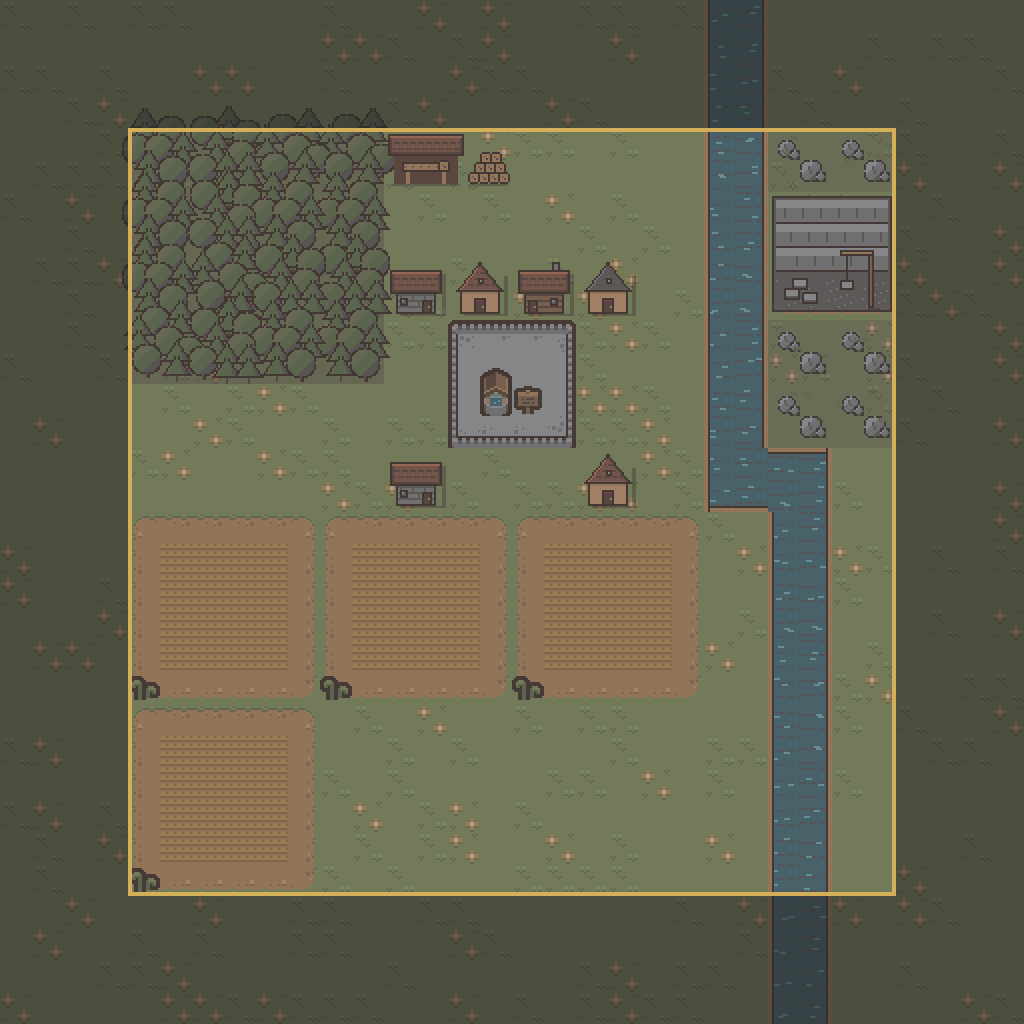
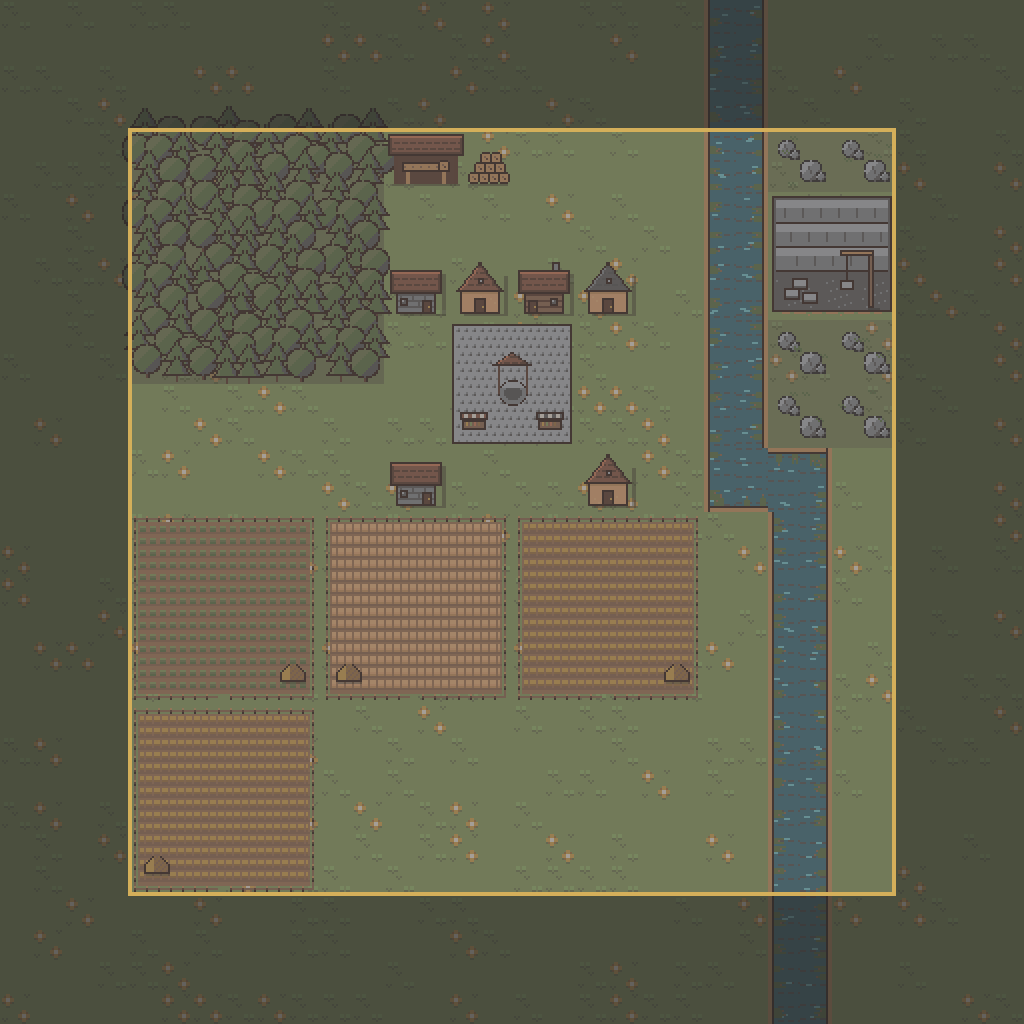
Map mockup: fenced farms with their own crops and haystacks, our square (cobbles, well, market stalls), reeds on the river banks

diff --git a/docs/index.html b/docs/index.html
@@ -548,19 +548,19 @@ footer { padding-block: 2.5rem 4rem; color: var(--ink-faint); font-size: 0.85rem
     <h3>D. Mockup: il nostro regno in Tiny Town</h3>
     <p>Il nucleo 12×12 vero del primo regno, letto da <span class="code">engine/maps</span>, con un po' di terra intorno (più scura, fuori dai confini) e il confine in oro. Ogni casella del motore è un blocco di 2×2 caselle Tiny Town: la casa 1×1 diventa tetto più muro con porta, il campo 3×3 un appezzamento 6×6. Acqua, colline e grano non esistono in Tiny Town: qui sono disegnati da noi con i colori della stessa tavolozza. Tre tavolozze a confronto, stesso disegno.</p>
     <div class="art-grid">
-      <figure><img src="assets/proposals/mockup/core_original.png?v=r6" alt="Il nucleo del regno con i colori originali di Tiny Town" loading="lazy" style="aspect-ratio:1/1;image-rendering:pixelated"><figcaption><b>1. Colori originali</b><span>Allegro e saturo, come lo disegna Kenney.</span></figcaption></figure>
-      <figure><img src="assets/proposals/mockup/core_serious.png?v=r6" alt="Il nucleo del regno con la tavolozza seriosa" loading="lazy" style="aspect-ratio:1/1;image-rendering:pixelated"><figcaption><b>2. Serioso</b><span>Saturazione dimezzata, verdi verso l'oliva, velatura seppia.</span></figcaption></figure>
-      <figure><img src="assets/proposals/mockup/core_dark.png?v=r6" alt="Il nucleo del regno con la tavolozza cupa" loading="lazy" style="aspect-ratio:1/1;image-rendering:pixelated"><figcaption><b>3. Cupo</b><span>Più scuro e più spento: si lega al fondo della pagina.</span></figcaption></figure>
+      <figure><img src="assets/proposals/mockup/core_original.png?v=r7" alt="Il nucleo del regno con i colori originali di Tiny Town" loading="lazy" style="aspect-ratio:1/1;image-rendering:pixelated"><figcaption><b>1. Colori originali</b><span>Allegro e saturo, come lo disegna Kenney.</span></figcaption></figure>
+      <figure><img src="assets/proposals/mockup/core_serious.png?v=r7" alt="Il nucleo del regno con la tavolozza seriosa" loading="lazy" style="aspect-ratio:1/1;image-rendering:pixelated"><figcaption><b>2. Serioso</b><span>Saturazione dimezzata, verdi verso l'oliva, velatura seppia.</span></figcaption></figure>
+      <figure><img src="assets/proposals/mockup/core_dark.png?v=r7" alt="Il nucleo del regno con la tavolozza cupa" loading="lazy" style="aspect-ratio:1/1;image-rendering:pixelated"><figcaption><b>3. Cupo</b><span>Più scuro e più spento: si lega al fondo della pagina.</span></figcaption></figure>
     </div>
   </div>
 
   <div class="proposal-group">
     <h3>E. Il palazzo nelle tre ere</h3>
-    <p>Proposta: un palazzo fisso 2×2 accanto alla piazza, verso il fiume, sulle caselle (7,3)–(8,4) del nucleo. Il motore oggi non lo conosce: è solo nel mockup. Con l'era cambiano il palazzo, le case e la piazza. Tavolozza seriosa (la n. 2). Edifici, bosco e colline sono disegnati da noi, pixel per pixel, nello stile di Tiny Town (segheria con tettoia e cataste, cava a gradoni con la gru, bosco di latifoglie e conifere, colline di roccia); case più strette del loro spazio, con l'erba in mezzo; una casa sì e una no tetto di fronte o a capanna col timpano, ombra portata a destra.</p>
+    <p>Proposta: un palazzo fisso 2×2 accanto alla piazza, verso il fiume, sulle caselle (7,3)–(8,4) del nucleo. Il motore oggi non lo conosce: è solo nel mockup. Con l'era cambiano il palazzo, le case e la piazza. Tavolozza seriosa (la n. 2). Edifici, bosco e colline sono disegnati da noi, pixel per pixel, nello stile di Tiny Town (segheria con tettoia e cataste, cava a gradoni con la gru, bosco di latifoglie e conifere, colline di roccia, campi recintati con colture diverse e covoni, piazza col pozzo e le bancarelle, canne lungo il fiume); case più strette del loro spazio, con l'erba in mezzo; una casa sì e una no tetto di fronte o a capanna col timpano, ombra portata a destra.</p>
     <div class="art-grid">
-      <figure><img src="assets/proposals/mockup/core_era1.png?v=r6" alt="Il regno nella prima era: villaggio con la sala del signore" loading="lazy" style="aspect-ratio:1/1;image-rendering:pixelated"><figcaption><b>Villaggio: la sala del signore</b><span>Lunga sala di legno col tetto di paglia, una staccionata, lo stendardo d'oro. Case di paglia, piazza di terra battuta.</span></figcaption></figure>
-      <figure><img src="assets/proposals/mockup/core_era2.png?v=r6" alt="Il regno nella seconda era: città con il palazzo comunale" loading="lazy" style="aspect-ratio:1/1;image-rendering:pixelated"><figcaption><b>Città: il palazzo comunale</b><span>Torre civica in pietra con la cella campanaria, loggia a tre archi, tetto di coppi. Case di coppi e ardesia, piazza lastricata.</span></figcaption></figure>
-      <figure><img src="assets/proposals/mockup/core_era3.png?v=r6" alt="Il regno nella terza era: il castello" loading="lazy" style="aspect-ratio:1/1;image-rendering:pixelated"><figcaption><b>Regno: il castello</b><span>Mastio sul retro, due torri d'angolo con le feritoie, mura merlate, porta con la saracinesca, stendardo sul mastio. Case di pietra e ardesia.</span></figcaption></figure>
+      <figure><img src="assets/proposals/mockup/core_era1.png?v=r7" alt="Il regno nella prima era: villaggio con la sala del signore" loading="lazy" style="aspect-ratio:1/1;image-rendering:pixelated"><figcaption><b>Villaggio: la sala del signore</b><span>Lunga sala di legno col tetto di paglia, una staccionata, lo stendardo d'oro. Case di paglia, piazza di terra battuta.</span></figcaption></figure>
+      <figure><img src="assets/proposals/mockup/core_era2.png?v=r7" alt="Il regno nella seconda era: città con il palazzo comunale" loading="lazy" style="aspect-ratio:1/1;image-rendering:pixelated"><figcaption><b>Città: il palazzo comunale</b><span>Torre civica in pietra con la cella campanaria, loggia a tre archi, tetto di coppi. Case di coppi e ardesia, piazza lastricata.</span></figcaption></figure>
+      <figure><img src="assets/proposals/mockup/core_era3.png?v=r7" alt="Il regno nella terza era: il castello" loading="lazy" style="aspect-ratio:1/1;image-rendering:pixelated"><figcaption><b>Regno: il castello</b><span>Mastio sul retro, due torri d'angolo con le feritoie, mura merlate, porta con la saracinesca, stendardo sul mastio. Case di pietra e ardesia.</span></figcaption></figure>
     </div>
   </div>
 </section>

diff --git a/lab/pixel_buildings.py b/lab/pixel_buildings.py
@@ -362,3 +362,139 @@ def draw_castle(canvas, palette, px: int, py: int) -> None:
         draw_arrow_slit(canvas, palette, tower_x + 7, py + 42)
     shade(canvas, px + 2, py + 59, 60)
     draw_banner(canvas, palette, px + 32, py + 0, 6, flag_left=False)
+
+
+# Crops per farm, picked in turn by farm id: (ear light, ear dark, stalk).
+CROPS = {
+    "wheat": (24, 21, 1),       # golden wheat
+    "barley": (11, 17, 6),      # pale barley
+    "cabbage": (29, 15, 22),    # rows of green heads
+}
+CROP_ORDER = ("wheat", "cabbage", "barley", "wheat")
+SOIL_LIGHT, SOIL, SOIL_DARK = 6, 13, 1
+
+
+def draw_fence(canvas, palette, x0: int, y0: int, width: int, height: int, gate_x: int) -> None:
+    """@brief A wooden rail with posts every 6 px around a field; a gap at
+    the bottom (the gate) at gate_x."""
+    wood_light, wood, wood_dark = WALLS["planks"]
+    for x in range(x0, x0 + width):
+        if not gate_x <= x < gate_x + 6:
+            put(canvas, palette, x, y0 + height - 1, wood)
+        put(canvas, palette, x, y0, wood)
+    for y in range(y0, y0 + height):
+        put(canvas, palette, x0, y, wood)
+        put(canvas, palette, x0 + width - 1, y, wood)
+    posts = [(x, y0) for x in range(x0, x0 + width, 6)]
+    posts += [(x, y0 + height - 1) for x in range(x0, x0 + width, 6) if not gate_x <= x < gate_x + 6]
+    posts += [(x0, y) for y in range(y0, y0 + height, 6)] + [(x0 + width - 1, y) for y in range(y0, y0 + height, 6)]
+    for x, y in posts:
+        put(canvas, palette, x, y - 1, wood_light)
+        put(canvas, palette, x, y, wood_dark)
+        put(canvas, palette, x, y + 1, INK)
+
+
+def draw_haystack(canvas, palette, x: int, y: int) -> None:
+    """@brief A haystack: a straw dome with streaks and a dark outline."""
+    light, mid, dark = ROOFS["thatch"]
+    for row in range(9):
+        half = min(row + 2, 6)
+        for dx in range(-half, half + 1):
+            colour = INK if dx in (-half, half) or row == 8 else light if dx < -1 else mid
+            if colour == mid and (dx + row) % 3 == 0:
+                colour = dark
+            put(canvas, palette, x + dx, y + row, colour)
+    shade(canvas, x - 5, y + 9, 12)
+
+
+def draw_crop_rows(canvas, palette, x0: int, y0: int, width: int, height: int, crop: str) -> None:
+    """@brief Furrows across the field, the crop standing in them."""
+    light, mid, dark = CROPS[crop]
+    fill(canvas, palette, x0, y0, width, height, SOIL)
+    for y in range(y0, y0 + height):
+        if (y - y0) % 6 == 5:
+            for x in range(x0, x0 + width):
+                put(canvas, palette, x, y, SOIL_DARK)
+    for row_top in range(y0 + 1, y0 + height - 4, 6):
+        for x in range(x0 + 1, x0 + width - 1):
+            if crop == "cabbage":
+                if (x - x0) % 5 in (1, 2, 3):
+                    put(canvas, palette, x, row_top + 1, light)
+                    put(canvas, palette, x, row_top + 2, mid)
+                    put(canvas, palette, x, row_top + 3, dark)
+                continue
+            if (x - x0) % 4 == 3:
+                continue
+            put(canvas, palette, x, row_top, light)
+            put(canvas, palette, x, row_top + 1, light)
+            put(canvas, palette, x, row_top + 2, mid)
+            put(canvas, palette, x, row_top + 3, dark)
+
+
+def draw_farm(canvas, palette, px: int, py: int, farm_number: int) -> None:
+    """@brief A farm on its 96 x 96 block (3 x 3 engine tiles): crop rows of
+    the farm's own crop, a fence with a gate, a haystack in a corner."""
+    crop = CROP_ORDER[farm_number % len(CROP_ORDER)]
+    draw_crop_rows(canvas, palette, px + 5, py + 5, 86, 86, crop)
+    draw_fence(canvas, palette, px + 3, py + 3, 90, 90, px + 45)
+    corner_x = px + 82 if farm_number % 2 else px + 14
+    draw_haystack(canvas, palette, corner_x, py + 76)
+
+
+def draw_cobbles(canvas, palette, x0: int, y0: int, width: int, height: int) -> None:
+    """@brief Paving of round cobbles: light stones on ink joints, rows offset."""
+    stone_light, stone, stone_dark = WALLS["stone"]
+    # Light ground with sparse dark joints: a square must read as an open,
+    # bright place, not as a dark block (first try was too heavy).
+    fill(canvas, palette, x0, y0, width, height, stone_light)
+    for row, y in enumerate(range(y0 + 2, y0 + height - 1, 4)):
+        for x in range(x0 + 1 + (row % 2) * 2, x0 + width - 2, 4):
+            put(canvas, palette, x + 2, y, stone)
+            put(canvas, palette, x + 1, y + 1, stone)
+            put(canvas, palette, x + 2, y + 1, stone_dark)
+    frame(canvas, palette, x0, y0, width, height)
+
+
+def draw_well(canvas, palette, centre_x: int, centre_y: int) -> None:
+    """@brief A round stone well with dark water, under a small wooden roof."""
+    stone_light, stone, stone_dark = WALLS["stone"]
+    for dy in range(-6, 7):
+        for dx in range(-7, 8):
+            distance = dx * dx * 0.75 + dy * dy
+            if distance > 40:
+                continue
+            colour = INK if distance > 33 else stone_light if dy < -2 else stone if distance > 14 else 2
+            put(canvas, palette, centre_x + dx, centre_y + dy, colour)
+    wood_light, wood, wood_dark = WALLS["planks"]
+    for post_x in (centre_x - 7, centre_x + 7):
+        for y in range(centre_y - 14, centre_y + 1):
+            put(canvas, palette, post_x, y, wood_dark)
+    draw_gable_roof(canvas, palette, centre_x, centre_y - 20, 10, 7, "tiles", 1)
+
+
+def draw_stall(canvas, palette, x0: int, y0: int, awning: int) -> None:
+    """@brief A market stall: striped awning, counter with goods."""
+    for x in range(x0, x0 + 14):
+        for y in range(y0, y0 + 4):
+            put(canvas, palette, x, y, awning if (x - x0) // 2 % 2 == 0 else 8)
+    frame(canvas, palette, x0, y0, 14, 4)
+    fill(canvas, palette, x0 + 1, y0 + 4, 12, 5, WALLS["planks"][1])
+    frame(canvas, palette, x0 + 1, y0 + 4, 12, 5)
+    for i, goods in enumerate((24, 29, 20, 21)):
+        put(canvas, palette, x0 + 3 + i * 2, y0 + 5, goods)
+        put(canvas, palette, x0 + 3 + i * 2, y0 + 6, goods)
+
+
+def draw_square(canvas, palette, px: int, py: int, era: int) -> None:
+    """@brief The square on its 64 x 64 block: beaten earth and the well in
+    the village; cobbles, the well and two market stalls from the town on."""
+    if era == 1:
+        fill(canvas, palette, px + 2, py + 2, 60, 60, SOIL)
+        for i in range(50):
+            put(canvas, palette, px + 3 + (i * 29) % 58, py + 3 + (i * 17) % 58, SOIL_DARK if i % 2 else SOIL_LIGHT)
+        draw_well(canvas, palette, px + 32, py + 36)
+        return
+    draw_cobbles(canvas, palette, px + 2, py + 2, 60, 60)
+    draw_well(canvas, palette, px + 32, py + 36)
+    draw_stall(canvas, palette, px + 6, py + 46, 26)
+    draw_stall(canvas, palette, px + 44, py + 46, 27)

diff --git a/lab/tiny_town_mockup.py b/lab/tiny_town_mockup.py
@@ -225,6 +225,26 @@ def draw_water(canvas: Canvas, palette, world: list[str], sub_x: int, sub_y: int
                 px, py = {"N": (i, depth), "S": (i, TILE - 1 - depth),
                           "W": (depth, i), "E": (TILE - 1 - depth, i)}[side]
                 canvas.pixels[top + py][left + px] = palette[colour]
+        draw_reeds(canvas, palette, left, top, side, spot_hash(sub_x, sub_y, 97))
+
+
+REED_STEM, REED_TIP = 22, 1
+
+
+def draw_reeds(canvas: Canvas, palette, left: int, top: int, side: str, seed: int) -> None:
+    """@brief Two clumps of reeds standing in the water along a bank: dark
+    green stems of uneven height, a brown head on the tallest."""
+    for clump in range(2):
+        along = 2 + (seed * (clump + 3)) % 11
+        for stem in range(3):
+            height = 3 + (seed + stem * 2 + clump) % 4
+            for step in range(height):
+                depth = 3 + step
+                offset = along + stem
+                px, py = {"N": (offset, depth), "S": (offset, TILE - 1 - depth),
+                          "W": (depth, offset), "E": (TILE - 1 - depth, offset)}[side]
+                colour = REED_TIP if step == height - 1 and stem == 1 else REED_STEM
+                canvas.pixels[top + py][left + px] = palette[colour]
 
 
 def view_sub(x: int, y: int) -> tuple[int, int]:
@@ -354,7 +374,8 @@ def draw_square(canvas: Canvas, sheet, sub_x: int, sub_y: int, era: int | None =
 def draw_buildings(canvas: Canvas, sheet, core: dict, era: int | None = None) -> None:
     """@brief Square, buildings and, when an era is given, the proposed palace."""
     site_x, site_y = SITE
-    draw_square(canvas, sheet, *view_sub(site_x + core["square"]["x"], site_y + core["square"]["y"]), era)
+    square_x, square_y = view_sub(site_x + core["square"]["x"], site_y + core["square"]["y"])
+    pixel_buildings.draw_square(canvas, sheet[1], square_x * TILE, square_y * TILE, era or 2)
     if era is not None:
         draw_palace(canvas, sheet, era, *view_sub(site_x + PALACE_CORE_TILE[0], site_y + PALACE_CORE_TILE[1]))
     drawers = {"farm": draw_farm, "sawmill": draw_sawmill, "quarry": draw_quarry}
@@ -362,6 +383,8 @@ def draw_buildings(canvas: Canvas, sheet, core: dict, era: int | None = None) ->
         sub_x, sub_y = view_sub(site_x + item["x"], site_y + item["y"])
         if item["kind"] == "house":
             draw_house(canvas, sheet, building_id, sub_x, sub_y, era)
+        elif item["kind"] == "farm":
+            pixel_buildings.draw_farm(canvas, sheet[1], sub_x * TILE, sub_y * TILE, building_id)
         else:
             drawers[item["kind"]](canvas, sheet, sub_x, sub_y)
 
